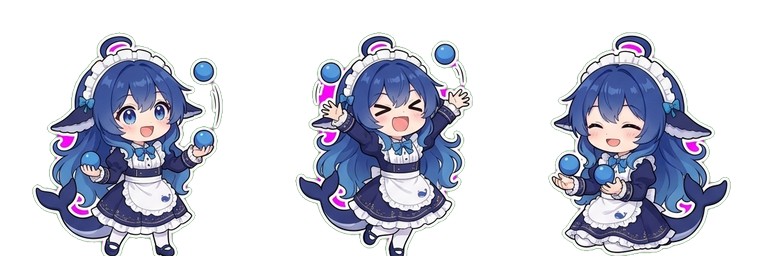
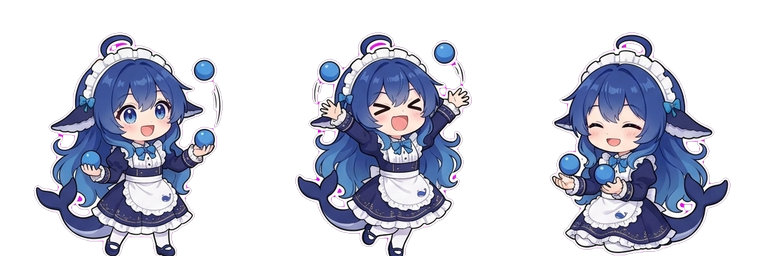
fix(assets): 21oil 暗洋红背景（边框取色）+ 封闭洋红岛清理 + 去绿边
- walk/sleep/wake 大片洋红：21oil 背景是 G=32 的暗洋红 (224,32,224)，距声明色 55 超容差 → 洪泛背景色并入边框实际取色（declared ∪ border）
- 封闭图形内洋红：洪泛只删连通背景 → 新增 closed_islands_cleanup（sp>120 的极饱和洋红残留直接删，角色哑光粉 sp≈30~70 安全）
- 绿边：加法溢色抑制补 G 过量 → 移除加法抑制，改侵蚀 2px + 羽化剥环
- 结果：walk 洋红 52474(41.8%)→19(0.0%)；绿边全 0；eat 粉脸保留 96px
- 验证：web 无崩溃、assets 200、冒烟 OK

Changed region(s): [[0.375, 0.125, 0.625, 1.0], [0.0312, 0.125, 0.3125, 1.0], [0.6875, 0.125, 0.9688, 1.0]]

diff --git a/scripts/slice-sheet.py b/scripts/slice-sheet.py
@@ -142,6 +142,26 @@ def bg_floodfill(img, bg_colors, tol):
     return out
 
 
+def closed_islands_cleanup(img, bg_colors):
+    """封闭岛清理：洪泛只删与图边连通的背景；被角色轮廓包围的**极饱和洋红**岛
+    （sp=min(R,B)-G > 120，如 (224,32,224) 的 G=32 暗洋红）不连通而残留——
+    这里按颜色直接删。角色哑光粉/紫内饰 sp≈30~70 且距背景色远，不受影响。"""
+    import numpy as np
+    from PIL import Image as _Image
+
+    arr = np.asarray(img.convert('RGB'), dtype=np.int16)
+    a = np.asarray(img.convert('RGBA').getchannel('A'), dtype=np.int16)
+    r, g, b = arr[:, :, 0], arr[:, :, 1], arr[:, :, 2]
+    sp = np.minimum(r, b) - g
+    dists = [np.linalg.norm(arr - np.asarray(bg, dtype=np.int16), axis=2) for bg in bg_colors]
+    dmin = np.min(np.stack(dists), axis=0)
+    kill = (sp > 120) & (dmin < 45) & (a > 0)
+    new_a = np.where(kill, 0, a).astype(np.uint8)
+    out = img.convert('RGBA')
+    out.putalpha(_Image.fromarray(new_a, 'L'))
+    return out
+
+
 def despill(img, bg_colors):
     """去溢色（色键残边）：**只处理空间边缘带**（距透明像素 ≤3px）内的粉调像素——
     背景混合只可能出现在轮廓处；角色内饰色（粉脸/衣服）绝不碰（全域抑制会把粉脸灰化，实测）。"""
@@ -321,11 +341,13 @@ def main():
             img = gray_key(img)
             print('keyed: gray-mask', file=sys.stderr)
         else:
+            # 背景色 = 声明色 ∪ 图像边框实际取色（模型常把"纯洋红"画偏，如 G=32 的暗洋红）
             bgs = [detect_bg(img)] if args.key == 'auto' else [[int(v) for v in c.split(',')] for c in args.key.split('|')]
-            img = bg_floodfill(img, bgs, tol=35)  # 边界洪泛去背景（连通性分割，保住与底色同色的角色部位）
-            img = despill(img, bgs)  # 边缘带去溢色（内饰色不碰）
-            img = defringe(img, erode=1)  # 侵蚀 1px + 羽化
-            print(f'keyed: bg={bgs} floodfill+despill+defringe', file=sys.stderr)
+            bgs = list({tuple(b) for b in bgs} | {tuple(detect_bg(img))})
+            img = bg_floodfill(img, bgs, tol=45)  # 边界洪泛去背景（连通性分割，保住与底色同色的角色部位）
+            img = closed_islands_cleanup(img, bgs)  # 封闭洋红岛：极饱和洋红残留直接删（角色哑光粉脸安全）
+            img = defringe(img, erode=2)  # 侵蚀 2px 剥掉边缘混合环 + 羽化（替代加法抑制——补 G 会产出绿边）
+            print(f'keyed: bg={bgs} floodfill+islands+defringe2', file=sys.stderr)
         if args.repair:
             img = harden_alpha(img)
             print('repair: alpha hardened', file=sys.stderr)
